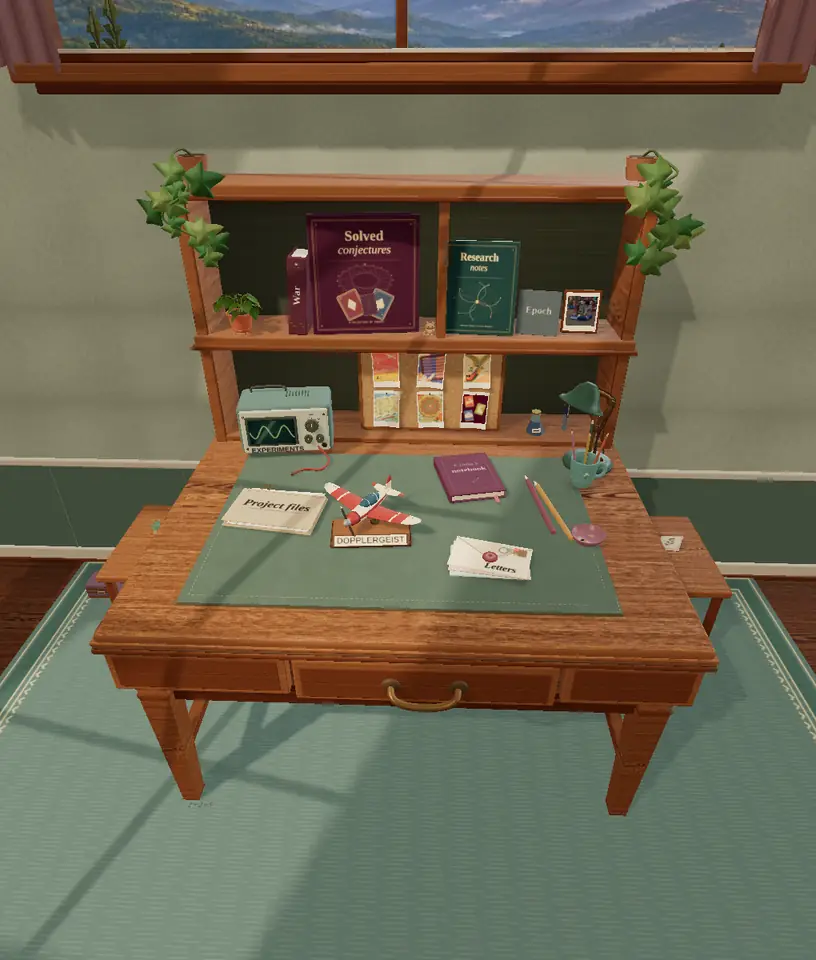
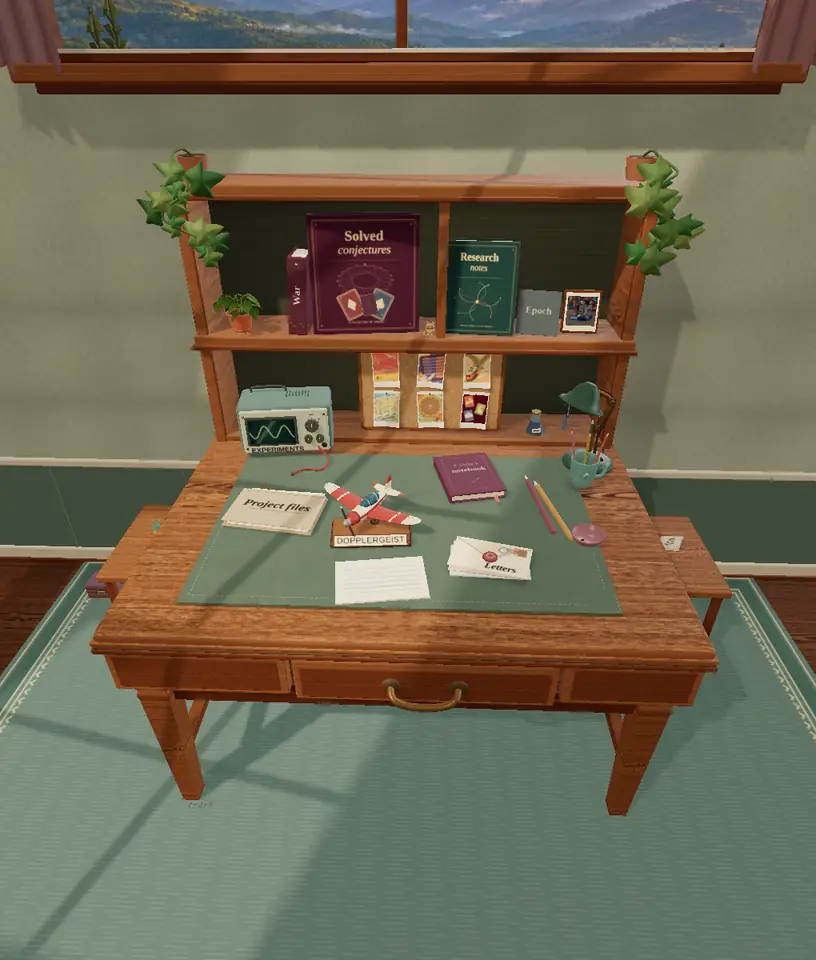
Keep scratch paper visible and reachable across desk modes

Changed region(s): [[0.3983, 0.5625, 0.5515, 0.6562]]

diff --git a/site/studio.css b/site/studio.css
@@ -347,14 +347,18 @@ html[data-view] .is-rendered .desk-objects :is(a,button) { cursor:inherit; }
 /* The room fills the window. Its only view control is the little shelf glyph. */
 html[data-view="desk"] .mast { display:none; }
 html[data-view="desk"] .desk-overview, html[data-view="desk"] .desktop-picture { height:100svh; }
-.mode-switch {
+.mode-switch, .desk-paper-shortcut:not([hidden]) {
   position:fixed; z-index:12; top:max(14px,env(safe-area-inset-top)); right:max(16px,env(safe-area-inset-right));
   display:inline-flex; align-items:center; gap:7px; height:44px; padding:0 14px; border:1px solid #806b62; border-radius:24px;
   font:670 15px/1 var(--headline); text-decoration:none; white-space:nowrap;
   color:#4c3945; background:#fff9ef; box-shadow:0 2px 0 #826e63,0 3px 13px #30241c30; touch-action:manipulation;
 }
-.mode-switch:hover,.profile-links a:hover { color:#823955; background:#fff; }
-.mode-switch:focus-visible,.profile-links a:focus-visible { outline:3px solid #76435c; outline-offset:3px; }
+.desk-paper-shortcut:not([hidden]) {
+  position:absolute; top:auto; bottom:max(12px,env(safe-area-inset-bottom)); z-index:2;
+}
+.stationery[data-open] .desk-paper-shortcut, body:has(dialog[open]) .desk-paper-shortcut { visibility:hidden; }
+.mode-switch:hover,.desk-paper-shortcut:hover,.profile-links a:hover { color:#823955; background:#fff; }
+.mode-switch:focus-visible,.desk-paper-shortcut:focus-visible,.profile-links a:focus-visible { outline:3px solid #76435c; outline-offset:3px; }
 html[data-view="shelf"] .mast-inner { padding-right:130px; }
 html[data-view="shelf"] .mode-switch { top:10px; }
 html[data-view="shelf"] .mode-shelf { display:initial; }
@@ -469,19 +473,19 @@ html[data-view="desk"] .is-loading[data-opening] > .desk-objects {
   display:block; inset:50% auto auto 50%; transform:translate(-50%,-50%);
   padding:0; width:auto; max-width:none; background-size:100% 100%;
   height:min(153.846cqh,96.154cqw); aspect-ratio:2;
-  background-image:url("assets/furniture/opening-wide.webp");
+  background-image:url("assets/furniture/opening-wide.webp?v=2");
 }
 html[data-view="desk"] .is-loading[data-opening^="compact"] > .desk-objects {
   aspect-ratio:0.85; height:clamp(104.386cqh,217.582cqw,169.492cqh);
-  background-image:url("assets/furniture/opening-compact.webp");
+  background-image:url("assets/furniture/opening-compact.webp?v=2");
 }
 html[data-view="desk"] .is-loading[data-opening="compact-landscape"] > .desk-objects { background-image:none; }
 .is-loading[data-opening="compact-landscape"] .desk-objects::before {
   content:""; position:absolute; top:0; left:50%; transform:translateX(-50%);
-  height:100%; aspect-ratio:2.2; background:url("assets/furniture/opening-compact-landscape.webp") center/100% 100%;
+  height:100%; aspect-ratio:2.2; background:url("assets/furniture/opening-compact-landscape.webp?v=2") center/100% 100%;
 }
 html[data-view="desk"] .is-loading[data-opening] .desk-objects > :is(a,button) { display:none; }
-html[data-view="desk"] .is-loading[data-opening] .desk-objects > a[data-opening-link] {
+html[data-view="desk"] .is-loading[data-opening] .desk-objects > [data-opening-link]:not([hidden]) {
   display:grid; position:absolute; inset:var(--wide-area); width:auto; height:auto;
   min-height:0; max-width:none; padding:0; transform:none; border:0;
   background:transparent; box-shadow:none; color:var(--ink); cursor:pointer;
@@ -498,6 +502,6 @@ html[data-view="desk"] .is-loading[data-opening] > .desk-load-status {
   width:8.5rem; padding:6px 10px; gap:4px; font-size:12px;
   background:#fff8edee; border-radius:5px;
 }
-html[data-view="desk"] .is-loading[data-opening^="compact"] .desk-objects > a[data-opening-link] {
+html[data-view="desk"] .is-loading[data-opening^="compact"] .desk-objects > [data-opening-link]:not([hidden]) {
   inset:var(--compact-area);
 }

diff --git a/site/index.html b/site/index.html
@@ -19,7 +19,7 @@
           const landscape = matchMedia("(pointer: coarse) and (orientation: landscape) and (max-height: 900px)").matches;
           const opening = document.createElement("link");
           opening.rel = "preload"; opening.as = "image"; opening.fetchPriority = "high";
-          opening.href = "/assets/furniture/opening-" + (landscape ? "compact-landscape" : compact ? "compact" : "wide") + ".webp";
+          opening.href = "/assets/furniture/opening-" + (landscape ? "compact-landscape" : compact ? "compact" : "wide") + ".webp?v=2";
           document.head.append(opening);
         }
       })();
@@ -81,13 +81,13 @@
       else restoreReading();
     "></script>
     <script defer src="/rook-graph.js?v=3"></script>
-    <link rel="stylesheet" href="/studio.css?v=27" />
-    <script defer src="/studio.js?v=74" onerror="if (!location.pathname.startsWith('/boring')) delete document.documentElement.dataset.view"></script>
+    <link rel="stylesheet" href="/studio.css?v=28" />
+    <script defer src="/studio.js?v=75" onerror="if (!location.pathname.startsWith('/boring')) delete document.documentElement.dataset.view"></script>
     <script defer src="/paper-turn.js?v=5"></script>
     <script defer src="/desk-keepsakes.js?v=11"></script>
     <script defer src="/internship-card.js?v=1"></script>
     <script defer src="/paper-dismiss.js?v=2"></script>
-    <script defer src="/desk-paper-extras.js?v=13"></script>
+    <script defer src="/desk-paper-extras.js?v=14"></script>
     <script defer src="/project-paper.js?v=2"></script>
     <link rel="stylesheet" href="/desk-extras.css?v=11" />
     <noscript
@@ -125,6 +125,7 @@
         <section class="desk-overview" aria-labelledby="studio-title">
 
           <h1 id="studio-title" class="visually-hidden" tabindex="-1">Cinna Davis — software, mathematics and research</h1>
+          <button class="desk-paper-shortcut" type="button" data-object="scratch-paper" data-keepsake aria-haspopup="dialog" hidden>Scratch paper</button>
           <div class="desktop-picture is-loading">
             <button type="button" class="desk-start-3d" hidden>Explore in 3D</button>
             <div class="desk-load-status">
@@ -246,7 +247,7 @@
               <button type="button" data-object="pencil" data-keepsake aria-haspopup="dialog" hidden><span>Graphite pencil</span></button>
               <button type="button" data-object="rose-pencil" data-keepsake aria-haspopup="dialog" hidden><span>Rose pencil</span></button>
               <button type="button" data-object="cup" data-keepsake aria-haspopup="dialog" hidden><span>Pencil cup</span></button>
-              <button type="button" data-object="blotter" data-keepsake aria-haspopup="dialog" hidden><span>Drawing mat</span></button>
+              <button type="button" data-object="blotter" data-keepsake data-opening-link style="--wide-area:64.573% 50.019% 30.242% 45.231%;--compact-area:58.129% 48.687% 37.564% 42.039%" aria-haspopup="dialog" hidden><span>Scratch paper on the drawing mat</span></button>
               <button type="button" class="object-lamp" data-object="lamp" aria-pressed="false" hidden><span>Desk lamp</span></button>
               <button type="button" class="object-drawer" data-object="drawer" aria-expanded="false" aria-controls="drawer-letter drawer-posters" hidden><span>Desk drawer</span></button>
               <button type="button" id="drawer-posters" data-object="poster-switch" aria-label="Frivolous wall posters" aria-pressed="false" hidden></button>

diff --git a/site/desk-paper-extras.js b/site/desk-paper-extras.js
@@ -215,7 +215,7 @@
   surface.append(rubbing);
   sketch.before(surface);surface.prepend(sketch);
   const impressions=new Map();
-  let freshLabel='',sketchRevision=0,folds=0,foldGrip=null;
+  let freshLabel='',sketchRevision=0,folds=0,foldGrip=null,paperDirty=false;
   studio.addEventListener('desk-rubbing',event=>{freshLabel=event.detail||'';});
   function graphiteRubbing(path,label){
     const scratch=make('canvas');scratch.width=art.width;scratch.height=art.height;
@@ -230,6 +230,7 @@
     return scratch;
   }
   function renderPaper(){
+    paperDirty=false;
     const ctx=art.getContext('2d');
     const rub=rubbing.getContext('2d');
     const key=++sketchRevision;
@@ -255,6 +256,7 @@
     else deliver();
   }
   new MutationObserver(records=>{
+    const hadRubbing=impressions.size>0;
     for(const change of records){
       for(const node of change.addedNodes){
         if(freshLabel&&node.nodeName.toLowerCase()==='path'&&node.dataset.lead==='graphite')
@@ -262,8 +264,10 @@
       }
     }
     for(const stroke of impressions.keys())if(!stroke.isConnected)impressions.delete(stroke);
-    renderPaper();
+    paperDirty=true;
+    if(!pickup.open || hadRubbing || impressions.size)renderPaper();
   }).observe(sketch,{subtree:true,childList:true,attributes:true,attributeFilter:['d','stroke-width']});
+  pickup.addEventListener('close',()=>{if(paperDirty)renderPaper();});
   studio.addEventListener('desk-sketch-request',renderPaper);
   sketch.addEventListener('pointermove',event=>{
     if(event.buttons && Math.abs(event.movementX)>17)

diff --git a/site/desk-model.js b/site/desk-model.js
@@ -426,7 +426,7 @@ export async function furnish(scene, narrow, repaint, software=false, posterMode
   });
   // Stitched green leather blotter with a fine inset line.
   const matWidth=width*(narrow ? .75 : .69);
-  const pad=tag(group(world,0,0,0),'blotter',[.12,.043,1.65],.75,.38);
+  const pad=tag(group(world,0,0,0),'blotter',[-.22,.062,1.50],.90,.60);
   const matLeft=-matWidth/2-.04,matRight=matWidth/2-.04;
   const matFar=-.96,matNear=1.88,cornerCut=.28;
   function matStock(parent,corners,height,material,x=0,y=0,z=0){
@@ -990,10 +990,11 @@ export async function furnish(scene, narrow, repaint, software=false, posterMode
     fileFace.material.map.needsUpdate=true;
   }
   filed.visible=false;
-  const deskPaper=detail('scratch',world,narrow?-.10:.18,.054,1.65);
+  const deskPaper=detail('scratch',pad,-.22,.054,1.50);
+  deskPaper.scale.setScalar(1.55);
   box(deskPaper,.58,.012,.39,cream);
   const sketchFace=drawn(deskPaper,.56,.37,()=>{},0,.007,0,true);
-  deskPaper.rotation.y=.14;deskPaper.visible=false;
+  deskPaper.rotation.y=.14;
   const folded=detail('folded-sketch',deskPaper,0,.04,0);
   const foldedGeometry=new T.BufferGeometry();
   // Inverse UVs follow the original sheet through the center crease and wings.

diff --git a/site/desk-life.js b/site/desk-life.js
@@ -59,7 +59,16 @@ export function deskLife(stage, getModel, redraw, reduced) {
     if(!texture)return;
     const canvas=texture.image;
     const ctx=canvas.getContext('2d');
+    ctx.resetTransform();
     ctx.clearRect(0,0,canvas.width,canvas.height);
+    // The same ruled sheet stays on the blotter after the last mark is erased.
+    ctx.strokeStyle='#8aa2aa80';ctx.lineWidth=Math.max(1,canvas.height/130);
+    ctx.beginPath();
+    for(let row=1;row<=6;row++){
+      const y=canvas.height*(.10+row*.12);
+      ctx.moveTo(canvas.width*.07,y);ctx.lineTo(canvas.width*.93,y);
+    }
+    ctx.stroke();
     wrote=Boolean(event.detail);
     if(wrote)ctx.drawImage(event.detail,0,0,canvas.width,canvas.height);
     texture.needsUpdate=true;redraw();
@@ -488,7 +497,6 @@ export function deskLife(stage, getModel, redraw, reduced) {
       fileSlip.userData.titled=true;drawnFile=token;
     }
     const scratch=part('scratch');
-    scratch.visible=wrote;
     if(!home.has(scratch))home.set(scratch,scratch.position.clone());
     const scrapBase=home.get(scratch);
     scratch.position.set(scrapBase.x+sheetX,scrapBase.y+sheetHeight,scrapBase.z+sheetZ);

diff --git a/site/studio.js b/site/studio.js
@@ -77,7 +77,7 @@
       openingRequest='';
       if(!request3D)stage.classList.remove('is-loading');
     };
-    image.src='/assets/furniture/opening-'+layout+'.webp';
+    image.src='/assets/furniture/opening-'+layout+'.webp?v=2';
   }
   function showFurniture() {
     if (sceneStarted || !deskIsReadyToMount()) return;
@@ -94,7 +94,7 @@
       preload.rel='modulepreload';preload.href='/vendor/three/'+file;
       if(!document.querySelector('link[href="'+preload.getAttribute('href')+'"]'))document.head.append(preload);
     }
-    import("./furniture.js?v=73").then(module => {
+    import("./furniture.js?v=74").then(module => {
       if (!deskIsReadyToMount()) { sceneStarted=false; return; }
       deskProgress.value=3;
       try { module.mountFurniture(stage,showGraphicsFallback,step=>{deskProgress.value=step;}); }

diff --git a/site/furniture.js b/site/furniture.js
@@ -1,10 +1,10 @@
 import * as T from './vendor/three/three.module.min.js';
-import { furnish } from './desk-model.js?v=54';
+import { furnish } from './desk-model.js?v=55';
 import { inspectDeskObjects } from './desk-inspect.js?v=20';
 
 import { attachDeskPointer } from './desk-pointer.js?v=26';
 
-import { deskLife } from './desk-life.js?v=18';
+import { deskLife } from './desk-life.js?v=19';
 import { deskView } from './desk-view.js?v=14';
 import { drawerTravel } from './desk-drawer.js?v=1';
 import { setClock } from './shelf-clock.js?v=1';
